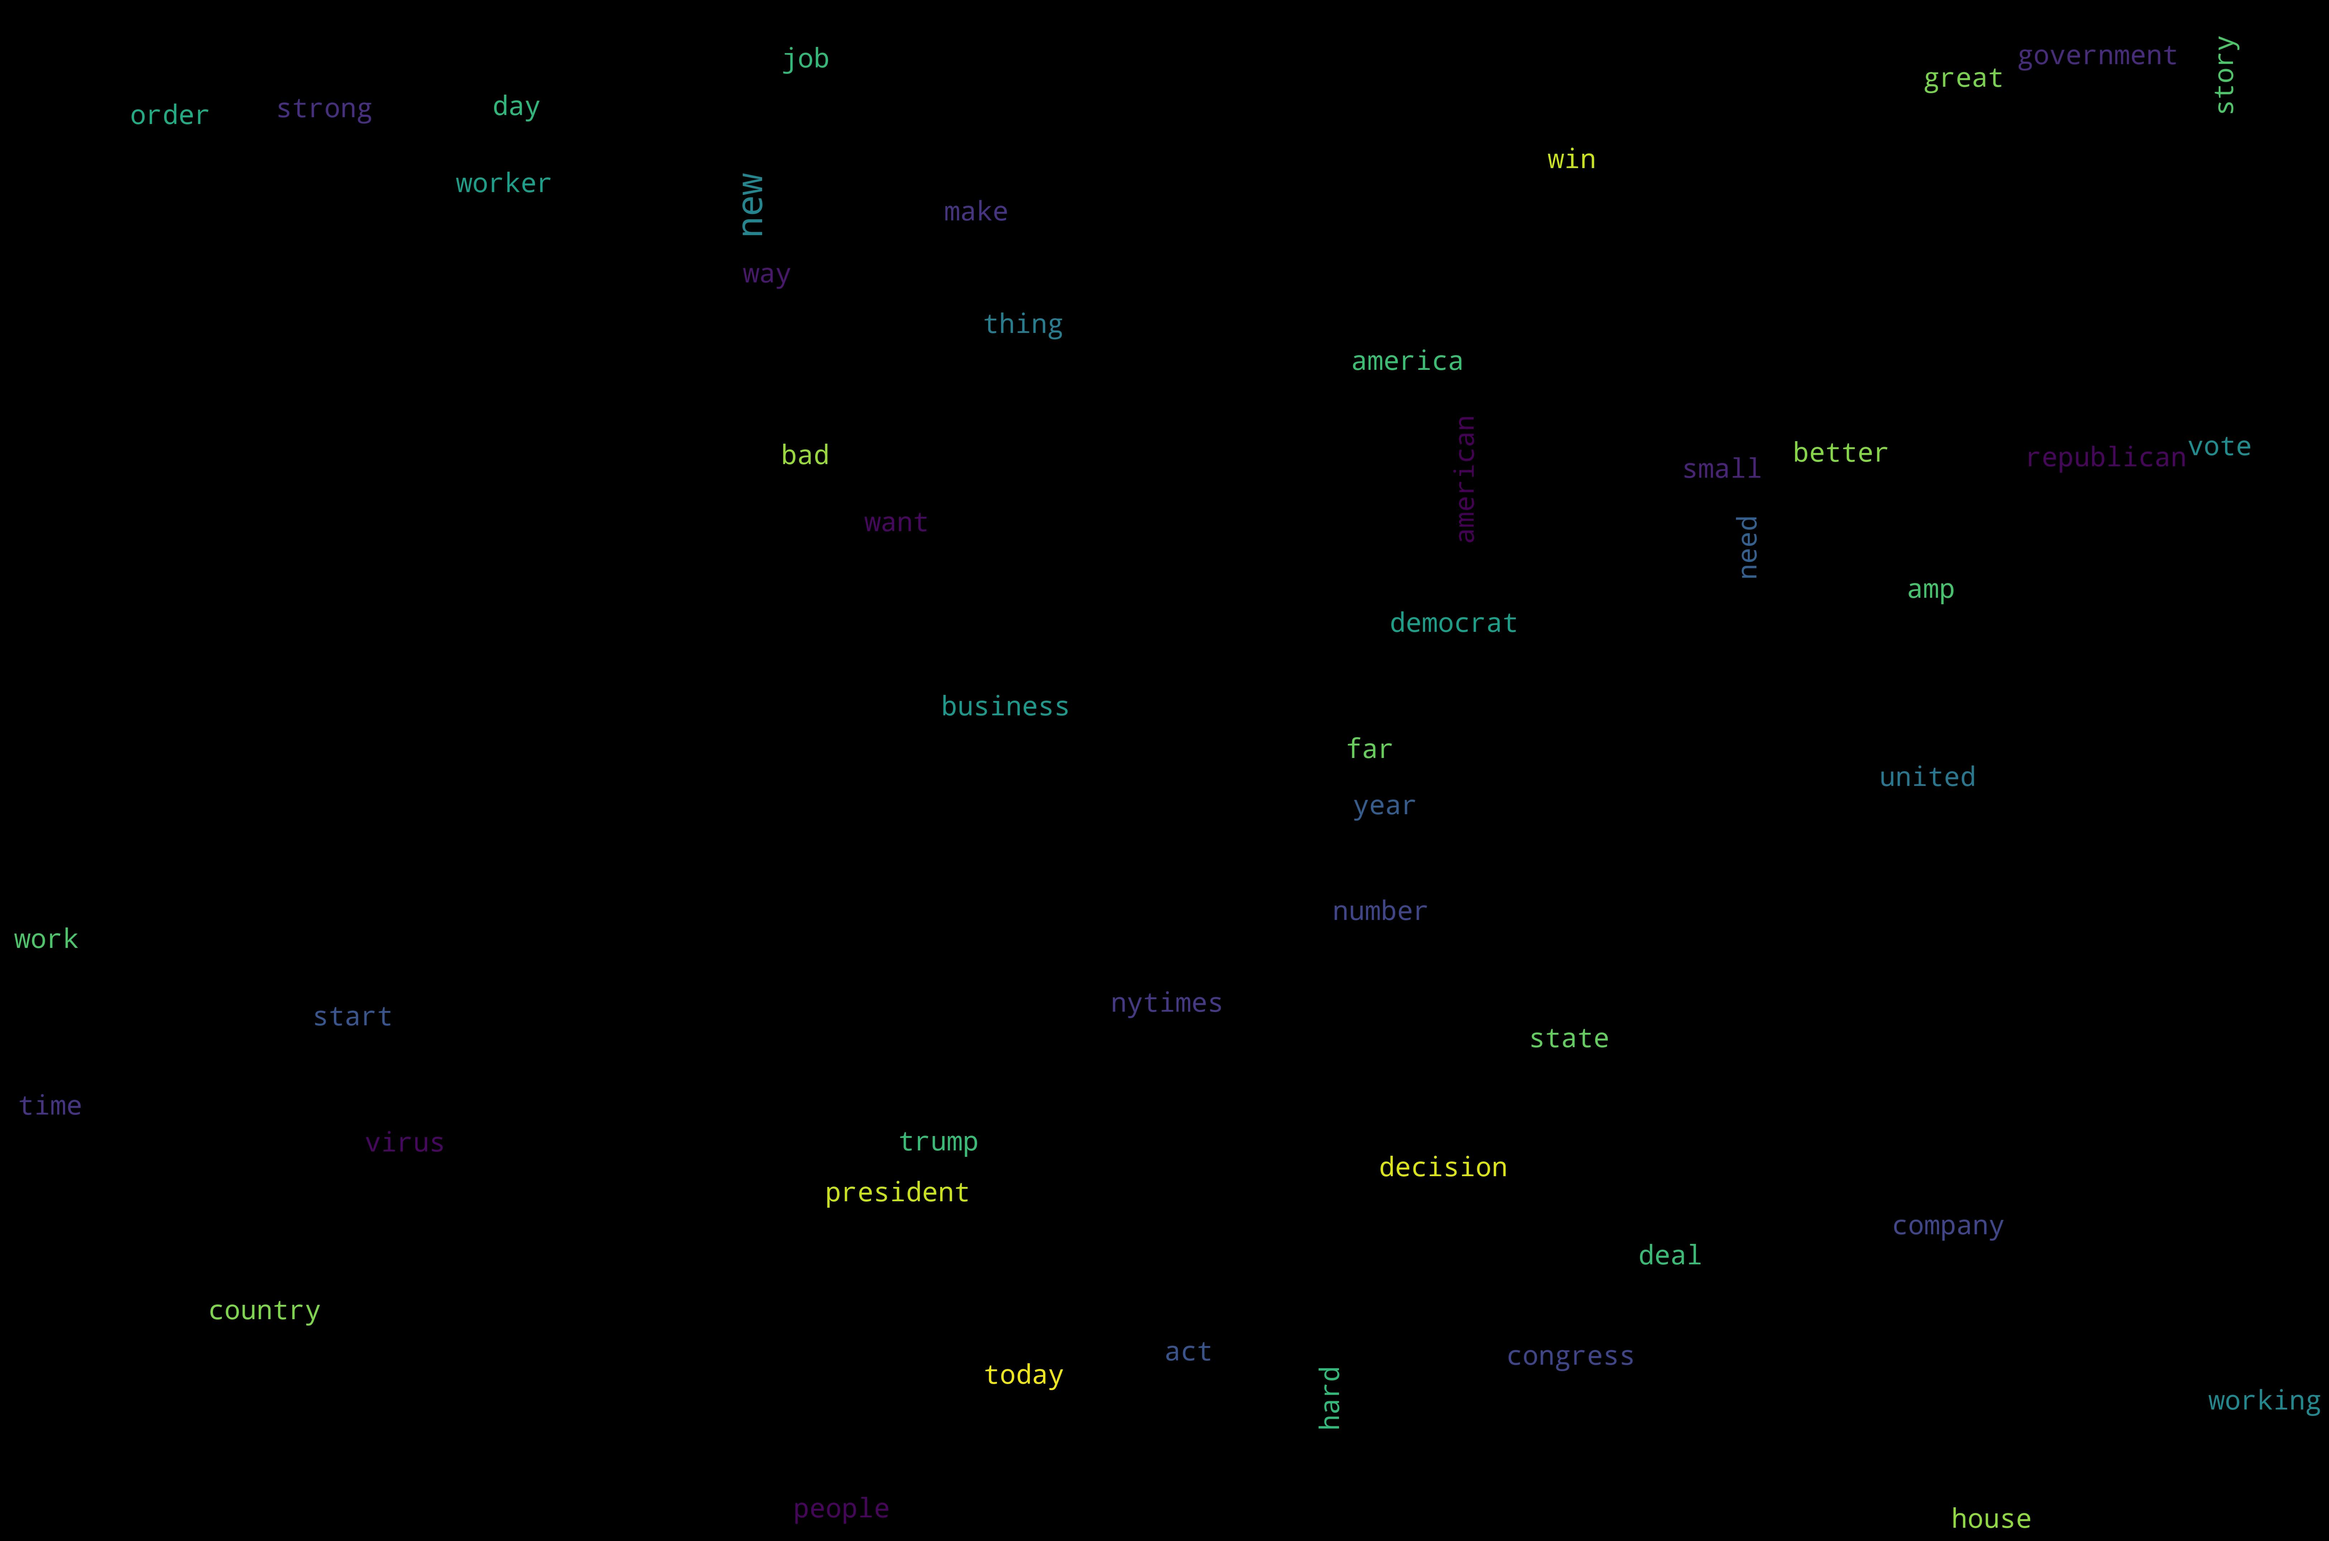
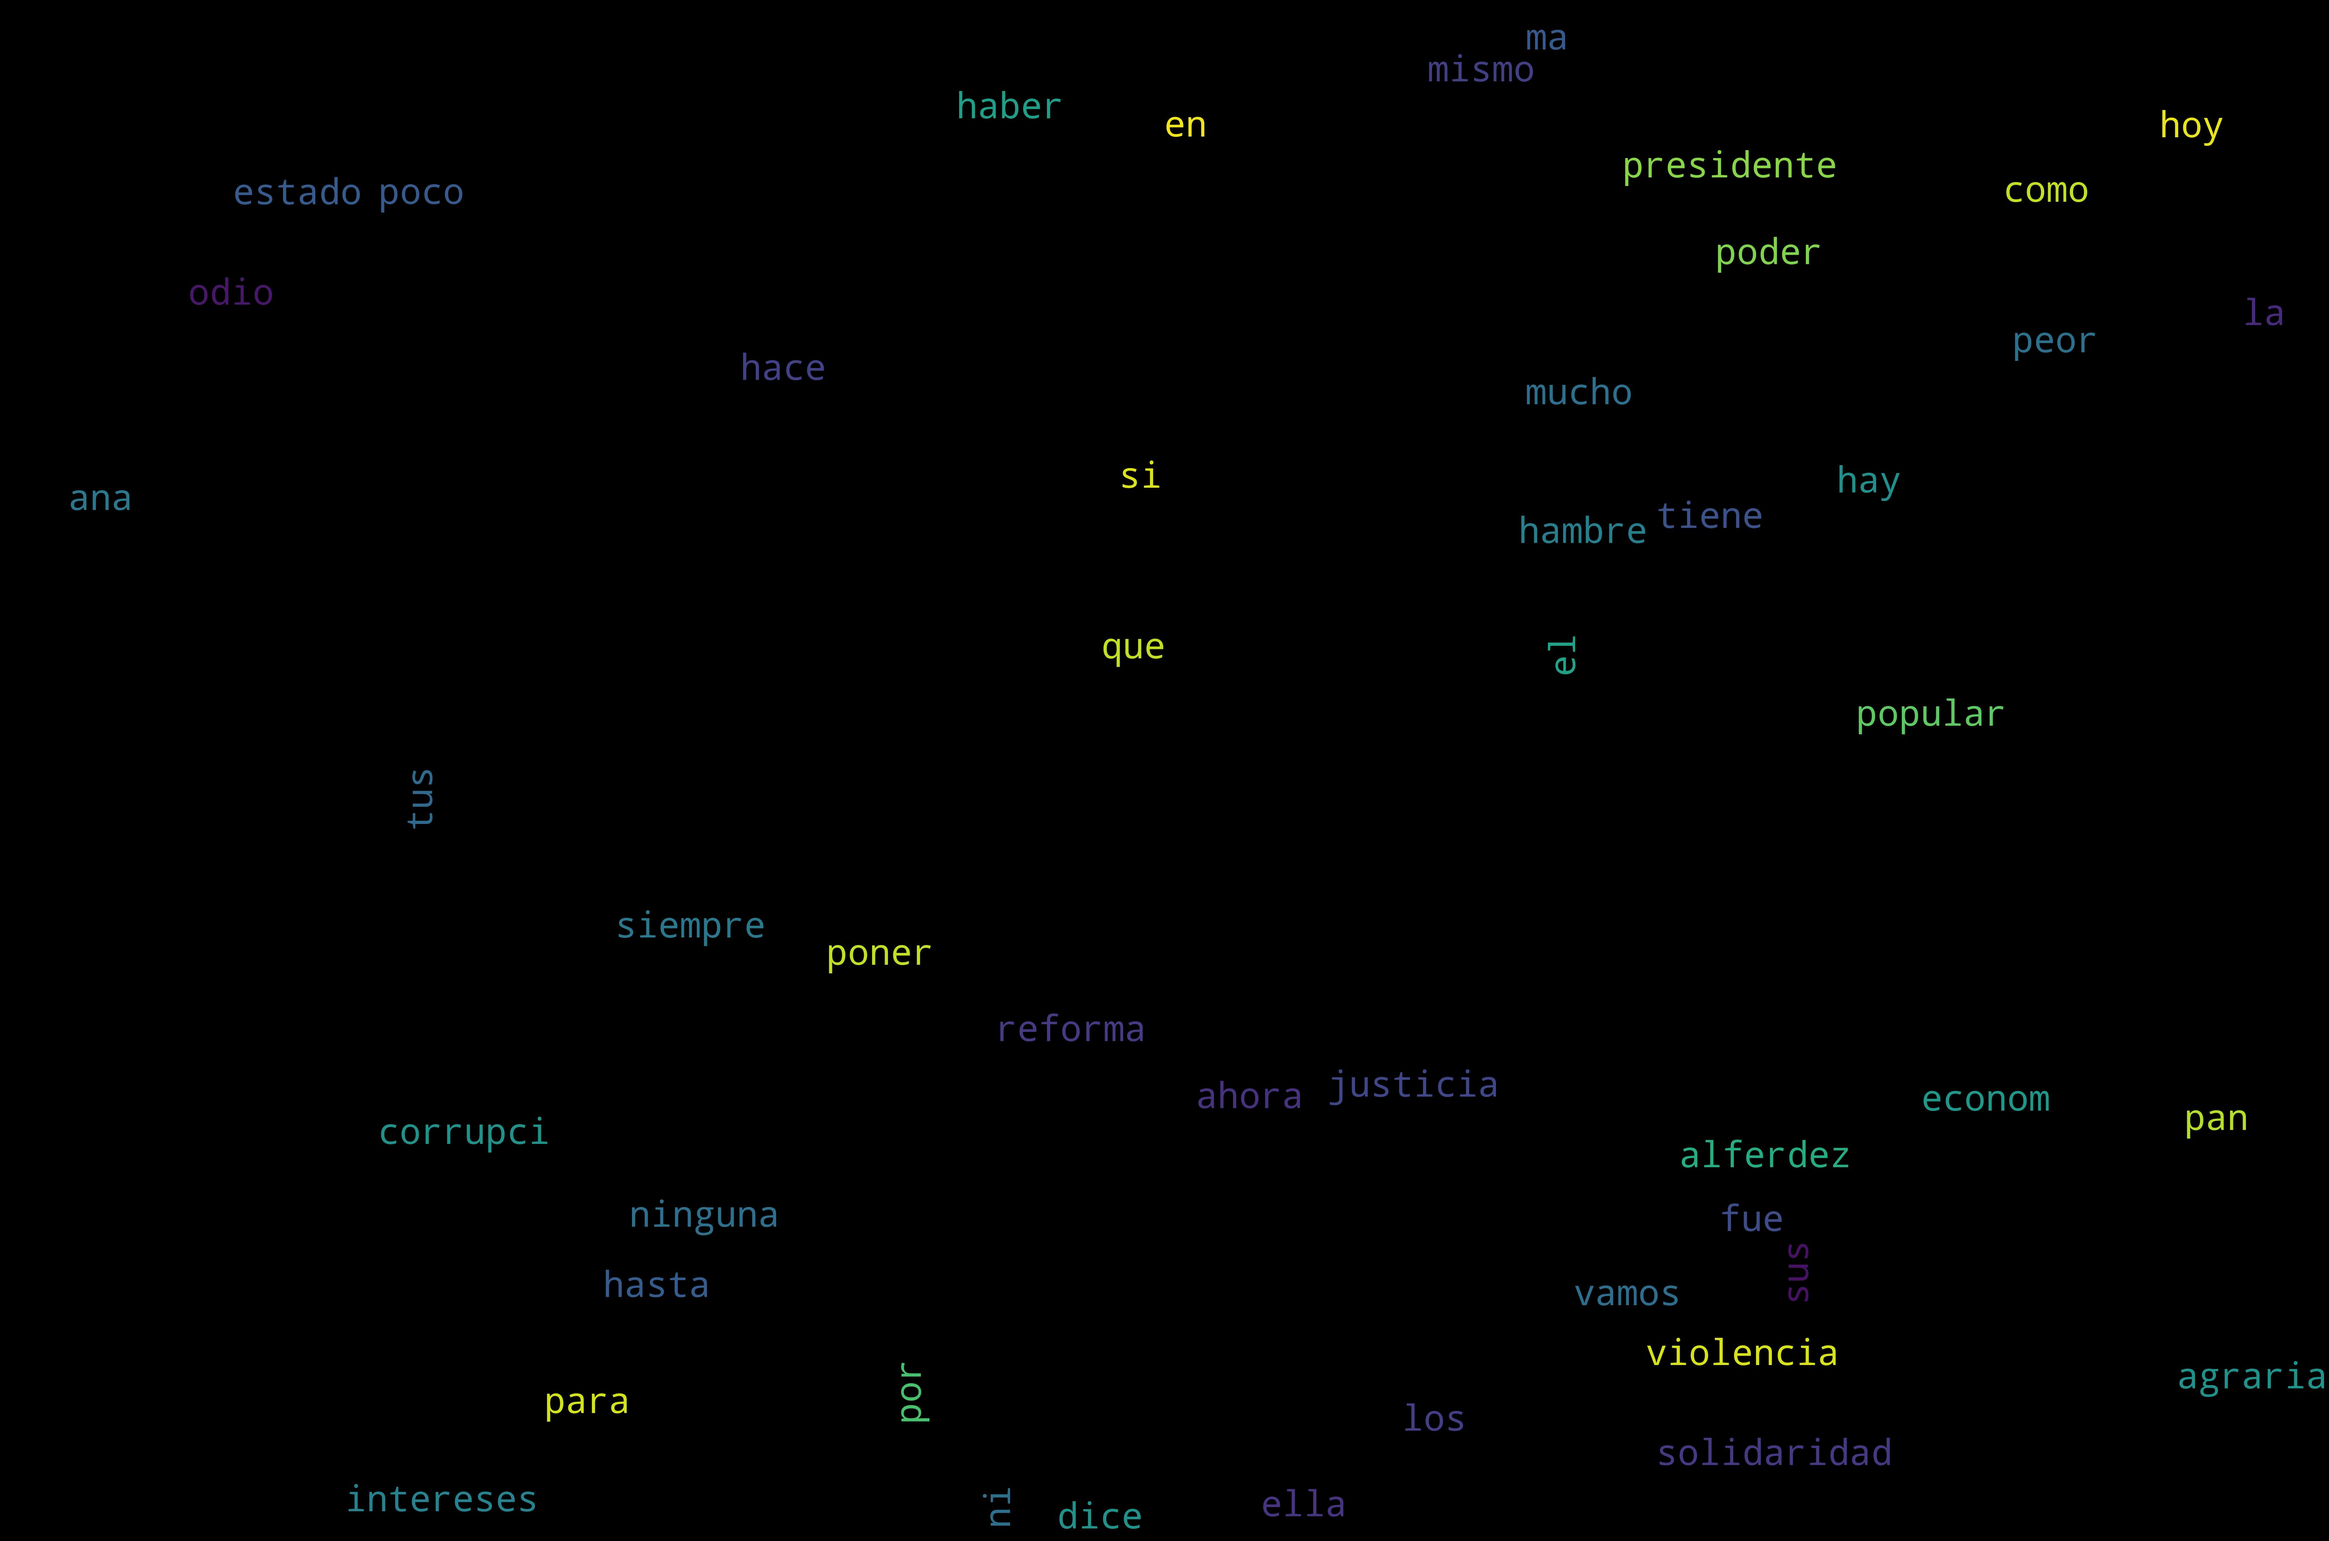
Searching for a topic feature added

diff --git a/tweets/templates/tweets/tweets_info.html b/tweets/templates/tweets/tweets_info.html
@@ -10,13 +10,13 @@
 <div style="display:flex; justify-content: flex-start; margin: 20px;">
     <div style="display:flex; justify-content: flex-start; margin: 20px;">
         <div class="card mb-2">
-            <h2 class="card-header">User's most liked Tweets</h2>
+            <h2 class="card-header">Most Liked Tweets</h2>
             <div class="card-body">
                 <ul>
                     {% for tweet in most_liked_tweets %}
                     <li>
                         <blockquote class="twitter-tweet"><p lang="en" dir="ltr"></p>&mdash; {{ name }}
-                            (@{{screen_name}}) <a href="{{ tweet }}">March 29, 2020</a></blockquote>
+                            (@{{name}}) <a href="{{ tweet }}">March 29, 2020</a></blockquote>
                         <script async src="https://platform.twitter.com/widgets.js" charset="utf-8"></script>
                     </li>
                     <hr>
@@ -27,13 +27,13 @@
 
 
         <div class="card mb-2">
-            <h2 class="card-header">User's most Retweeted Tweets</h2>
+            <h2 class="card-header">Most Retweeted Tweets</h2>
             <div class="card-body">
                 <ul>
                     {% for tweet in most_retweeted_tweets %}
                     <li>
                         <blockquote class="twitter-tweet"><p lang="en" dir="ltr"></p>&mdash; {{ name }}
-                            (@{{screen_name}}) <a href="{{ tweet }}">March 29, 2020</a></blockquote>
+                            (@{{name}}) <a href="{{ tweet }}">March 29, 2020</a></blockquote>
                         <script async src="https://platform.twitter.com/widgets.js" charset="utf-8"></script>
                     </li>
                     <hr>
@@ -43,17 +43,20 @@
         </div>
     </div>
 </div>
-    <div class="card mb-2">
-        <h3 class="card-header">Most mentioned users</h3>
-        <div class="card-body">
-            <ul>
-                {% for key, value in most_mentioned_dict.items %}
-                <li><strong>{{ key }} Mentioned {{ value }} times.</a></strong></li>
-                <hr>
-                {% endfor %}
-            </ul>
-        </div>
+<div class="card mb-2">
+    <h3 class="card-header">Most mentioned users</h3>
+    <div class="card-body">
+        <ul>
+            {% for key, value in most_mentioned_dict.items %}
+                {% if forloop.counter < 15 %}
+                    <li><strong>{{ key }} Mentioned {{ value }} times.</a></strong></li>
+                    <hr>
+                {% endif %}
+            {% endfor %}
+
+        </ul>
     </div>
+</div>
 </body>
 </html>
 {% endblock content %}

diff --git a/templates/base.html b/templates/base.html
@@ -33,7 +33,9 @@
                 <div class="navbar-nav">
                     <form class="form-inline my-2 my-lg-0" action="{% url 'tweets:search' %}" method="post">
                         {% csrf_token %}
-                        <input class="form-control mr-sm-2" name="search" type="search" placeholder="Search"
+                        <input class="form-control mr-sm-2" name="search_topic" type="search" placeholder="Search Topic"
+                               aria-label="Search">
+                        <input class="form-control mr-sm-2" name="search_user" type="search" placeholder="Search User"
                                aria-label="Search">
                         <button class="btn btn-outline-success my-2 my-sm-0" name="wordcloud" type="submit" value="Search">Word Cloud
                         </button>

diff --git a/tweets/templates/tweets/topics.html b/tweets/templates/tweets/topics.html
@@ -10,7 +10,7 @@
 <div class="content-section">
     <div class="row justify-content-center">
         <div class="col-md-12 text-center">
-            <h2>Wordcloud for {{ name }}'s tweets</h2>
+            <h2>Wordcloud for {{ name }}</h2>
             <hr>
         </div>
     </div>

diff --git a/tweets/templates/tweets/tweets_wordcloud.html b/tweets/templates/tweets/tweets_wordcloud.html
@@ -10,7 +10,7 @@
 <div class="content-section">
     <div class="row justify-content-center">
         <div class="col-md-12 text-center">
-            <h2>Wordcloud for {{ name }}'s tweets</h2>
+            <h2>Wordcloud for {{ name }}</h2>
             <hr>
         </div>
     </div>

diff --git a/tweets/views.py b/tweets/views.py
@@ -8,7 +8,8 @@ from django.urls import reverse_lazy
 from django.contrib import messages
 from .models import Search
 from .data_manipulation import (
-    tweets_dataframe,
+    user_tweets_to_dataframe,
+    topic_tweets_to_dataframe,
     cleanup,
     get_most_liked_tweets,
     get_most_retweeted_tweets,
@@ -21,7 +22,7 @@ from .data_manipulation import (
 from .ml_models import (
     lda_model,
     lda_topics_wc,
-    )
+)
 from .tweepy import authenticate_api
 
 
@@ -30,53 +31,75 @@ def index_view(request):
 
 
 def search_view(request):
-    if request.POST['search']:
-        if 'wordcloud' in request.POST:
-            return HttpResponseRedirect(
-                reverse_lazy('tweets:tweets-wordcloud', kwargs={'search': request.POST['search']}))
-        elif 'tweets_info' in request.POST:
-            return HttpResponseRedirect(reverse_lazy('tweets:tweets-info', kwargs={'search': request.POST['search']}))
-        elif 'topics' in request.POST:
-            return HttpResponseRedirect(reverse_lazy('tweets:tweets-topics', kwargs={'search': request.POST['search']}))
+    if request.POST['search_user'] and request.POST['search_topic']:
+        messages.warning(request, "You can only search one thing at a time")
+        return HttpResponseRedirect(reverse_lazy('tweets:tweets-index'))
+    elif request.POST['search_user']:
+        search = request.POST['search_user']
+        mode = 'user'
+    elif request.POST['search_topic']:
+        search = request.POST['search_topic']
+        mode = 'topic'
+    if 'wordcloud' in request.POST:
+        return HttpResponseRedirect(
+            reverse_lazy('tweets:tweets-wordcloud',
+                         kwargs={'search': search, 'mode': mode}))
+    elif 'tweets_info' in request.POST:
+        return HttpResponseRedirect(
+            reverse_lazy('tweets:tweets-info', kwargs={'search': search, 'mode': mode}))
+    elif 'topics' in request.POST:
+        return HttpResponseRedirect(
+            reverse_lazy('tweets:tweets-topics', kwargs={'search': search, 'mode': mode}))
     return HttpResponseRedirect(reverse_lazy('tweets:tweets-index'))
 
 
-def wordcloud_view(request, search):
-    username = search
+def wordcloud_view(request, search, mode):
     api = authenticate_api()
-    try:
-        df = tweets_dataframe(search, api, 500)
-    except Http404:
-        messages.warning(request, f'The user is not valid')
-        return HttpResponseRedirect(reverse_lazy('tweets:tweets-index'))
-    name = df['user.name'][0]
-    screen_name = df['user.screen_name'][0]
+    if mode == 'user':
+        try:
+            df = user_tweets_to_dataframe(search, api, 500)
+        except Http404:
+            messages.warning(request, f'The user is not valid')
+            return HttpResponseRedirect(reverse_lazy('tweets:tweets-index'))
+        name = df['user.name'][0]
+    else:  # mode equals 'topic'
+        try:
+            df = topic_tweets_to_dataframe(search, api, 500)
+        except Http404:
+            messages.warning(request, f'The topic is not valid')
+            return HttpResponseRedirect(reverse_lazy('tweets:tweets-index'))
+        name = search
     df_text = df['full_text']
     tweet_list = df_text.apply(cleanup)
     tweet_text = prepare_wordcloud_data(tweet_list)
     save_tweet_wordcloud(tweet_text, 'static/tweets/wordcloud.jpg', 'twitter11.png')
     context = {
         'name': name,
-        'screen_name': screen_name,
     }
     return render(request, 'tweets/tweets_wordcloud.html', context)
 
 
-def info_view(request, search):
+def info_view(request, search, mode):
     api = authenticate_api()
-    try:
-        df = tweets_dataframe(search, api, 500)
-    except Http404:
-        messages.warning(request, f'The user is not valid')
-        return HttpResponseRedirect(reverse_lazy('tweets:tweets-index'))
-    name = df['user.name'][0]
-    screen_name = df['user.screen_name'][0]
+    if mode == 'user':
+        try:
+            df = user_tweets_to_dataframe(search, api, 500)
+        except Http404:
+            messages.warning(request, f'The user is not valid')
+            return HttpResponseRedirect(reverse_lazy('tweets:tweets-index'))
+        name = df['user.name'][0]
+    else:  # mode equals 'topic'
+        try:
+            df = topic_tweets_to_dataframe(search, api, 500)
+        except Http404:
+            messages.warning(request, f'The topic is not valid')
+            return HttpResponseRedirect(reverse_lazy('tweets:tweets-index'))
+        name = search
     most_liked_tweets = get_most_liked_tweets(df, 5)
     most_retweeted_tweets = get_most_retweeted_tweets(df, 5)
     most_mentioned_dict = get_most_mentioned_dict(df_to_tweet_list(df), 15)
     context = {
         'name': name,
-        'screen_name': screen_name,
         'most_liked_tweets': most_liked_tweets,
         'most_retweeted_tweets': most_retweeted_tweets,
         'most_mentioned_dict': most_mentioned_dict,
@@ -84,15 +107,22 @@ def info_view(request, search):
     return render(request, 'tweets/tweets_info.html', context)
 
 
-def topics_view(request, search):
+def topics_view(request, search, mode):
     api = authenticate_api()
-    try:
-        df = tweets_dataframe(search, api, 500)
-    except Http404:
-        messages.warning(request, f'The user is not valid')
-        return HttpResponseRedirect(reverse_lazy('tweets:tweets-index'))
-    name = df['user.name'][0]
-    screen_name = df['user.screen_name'][0]
+    if mode == 'user':
+        try:
+            df = user_tweets_to_dataframe(search, api, 500)
+        except Http404:
+            messages.warning(request, f'The user is not valid')
+            return HttpResponseRedirect(reverse_lazy('tweets:tweets-index'))
+        name = df['user.name'][0]
+    else:  # mode equals 'topic'
+        try:
+            df = topic_tweets_to_dataframe(search, api, 500)
+        except Http404:
+            messages.warning(request, f'The topic is not valid')
+            return HttpResponseRedirect(reverse_lazy('tweets:tweets-index'))
+        name = search
     df_text = df['full_text']
     tweet_list = df_text.apply(cleanup)
     tweet_bow, tf_feature_names = bag_of_words_from_tweets(tweet_list)
@@ -108,7 +138,6 @@ def topics_view(request, search):
     routes = [route.replace('static/', '') for route in routes]
     context = {
         'name': name,
-        'screen_name': screen_name,
         'topic_amt': topic_amount,
         'routes': routes,
     }

diff --git a/tweets/data_manipulation.py b/tweets/data_manipulation.py
@@ -16,11 +16,26 @@ import re
 import os
 
 
-def tweets_dataframe(username, api, tweet_count):
+def user_tweets_to_dataframe(username, api, tweet_count):
     dataframe = pd.DataFrame()
     try:
         cursor = tweepy.Cursor(api.user_timeline, screen_name=username, count=tweet_count, tweet_mode="extended",
-                               include_rts=False).items(300)
+                               include_rts=False).items(tweet_count)
+        for status in cursor:
+            tweet = json.dumps(status._json)
+            tweet = json_normalize(json.loads(tweet))
+            df_item = pd.DataFrame(tweet)
+            dataframe = dataframe.append(df_item, ignore_index=True, sort=False)
+    except tweepy.TweepError:
+        raise Http404
+    return dataframe
+
+
+def topic_tweets_to_dataframe(topic, api, tweet_count):
+    dataframe = pd.DataFrame()
+    try:
+        cursor = tweepy.Cursor(api.search, q=topic, result_type="mixed", count=tweet_count, tweet_mode="extended",
+                               include_rts=False).items(tweet_count)
         for status in cursor:
             tweet = json.dumps(status._json)
             tweet = json_normalize(json.loads(tweet))

diff --git a/tweets/urls.py b/tweets/urls.py
@@ -10,8 +10,8 @@ app_name = 'tweets'
 urlpatterns = [
     path('', index_view, name='tweets-index'),
     path('search/', search_view, name='search'),
-    path('<str:search>/tweets_wordcloud', wordcloud_view,  name='tweets-wordcloud'),
-    path('<str:search>/tweets_info', info_view, name='tweets-info'),
-    path('<str:search>/topics', topics_view, name='tweets-topics'),
+    path('<str:mode>/<str:search>/tweets_wordcloud', wordcloud_view,  name='tweets-wordcloud'),
+    path('<str:mode>/<str:search>/tweets_info', info_view, name='tweets-info'),
+    path('<str:mode>/<str:search>/topics', topics_view, name='tweets-topics'),
 
 ]
